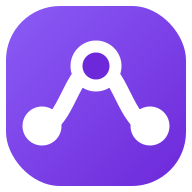
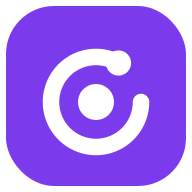
feat: redesign brand mark (orbit node, flat)

diff --git a/src/components/Logo.tsx b/src/components/Logo.tsx
@@ -1,31 +1,23 @@
 "use client";
 
-import { useId } from "react";
-
-/** agentflow 品牌标识：三节点 + 流动曲线 */
+/**
+ * agentflow 品牌标识 —— 「冻结的执行瞬间」
+ * 纯几何构图：300° 圆环（缺口即方向）+ 缺口端点的彗头圆点 + 中心节点圆点。
+ * 扁平单色 #7C3AED，无渐变。
+ */
 export default function Logo({ size = 28 }: { size?: number }) {
-  const uid = useId().replace(/[^a-zA-Z0-9]/g, "");
-  const gid = `afg-${uid}`;
   return (
     <svg width={size} height={size} viewBox="0 0 64 64" aria-label="agentflow" role="img">
-      <defs>
-        <linearGradient id={gid} x1="0" y1="0" x2="1" y2="1">
-          <stop offset="0" stopColor="#8B5CF6" />
-          <stop offset="1" stopColor="#6D28D9" />
-        </linearGradient>
-      </defs>
-      <rect x="2" y="2" width="60" height="60" rx="18" fill={`url(#${gid})`} />
+      <rect x="2" y="2" width="60" height="60" rx="16" fill="#7C3AED" />
       <path
-        d="M14 42 C 22 42, 24 22, 32 22 C 40 22, 42 42, 50 42"
+        d="M47.0 34.0 A15 15 0 1 1 39.5 21.0"
         fill="none"
         stroke="#FFFFFF"
         strokeWidth="5.5"
         strokeLinecap="round"
       />
-      <circle cx="14" cy="42" r="6.5" fill="#FFFFFF" />
-      <circle cx="32" cy="22" r="6.5" fill="#6D28D9" />
-      <circle cx="32" cy="22" r="6.5" fill="none" stroke="#FFFFFF" strokeWidth="4" />
-      <circle cx="50" cy="42" r="6.5" fill="#FFFFFF" />
+      <circle cx="39.5" cy="21.0" r="4.2" fill="#FFFFFF" />
+      <circle cx="32" cy="34" r="6" fill="#FFFFFF" />
     </svg>
   );
 }
